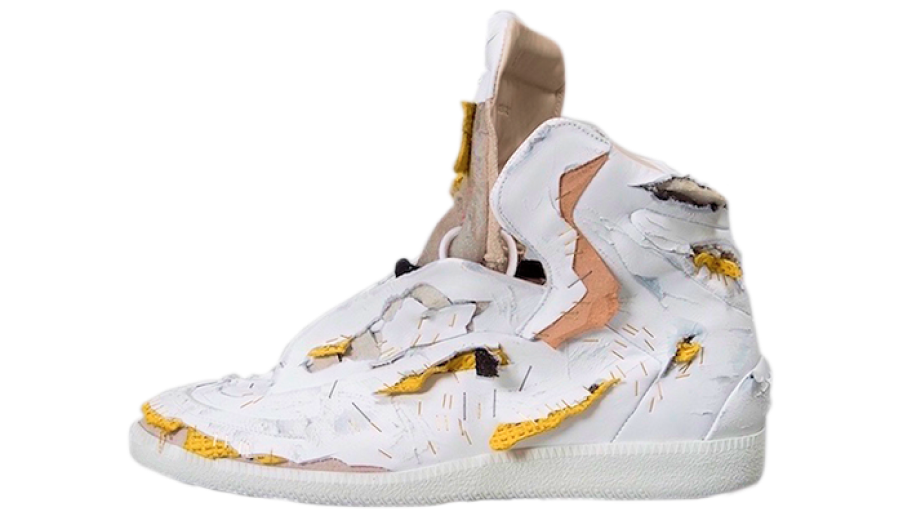
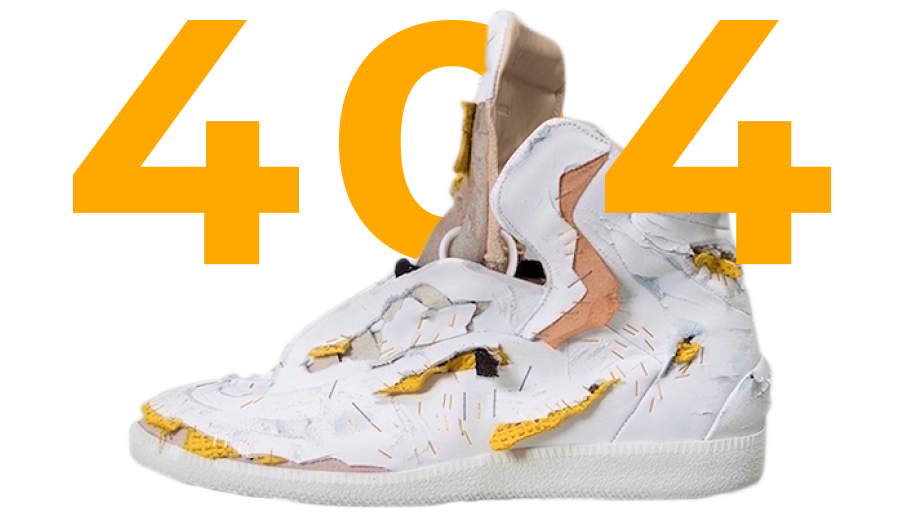
changes ErrorPageComponent add mediascreen

Changed region(s): [[0.6512, 0.0303, 0.9302, 0.5152], [0.062, 0.0303, 0.3411, 0.5152], [0.3721, 0.0303, 0.5581, 0.4848]]

diff --git a/src/routes/index.js b/src/routes/index.js
@@ -1,28 +1,33 @@
 import { createBrowserRouter } from "react-router-dom";
-import App from "../App"; 
+import App from "../App";
 import Catalog from "./Catalog";
+import ErrorPage from "./ErrorPage";
 import MainPage from "./MainPage";
 import Order from "./Order";
 const router = createBrowserRouter([
-    { 
-      path: "/",
-      element: <App />,
-      children: [
-        {
-          path: "/",
-          element: <MainPage />,
-        },
-        {
-          path: "Catalog",
-          element: <Catalog />,
-        }
-      ]
-    },
-   
-    {
-      path: "Order",
-      element: <Order />,
-    }
-])
+  {
+    path: "/",
+    element: <App />,
+
+    children: [
+      {
+        path: "/",
+        element: <MainPage />,
+      },
+      {
+        path: "Catalog",
+        element: <Catalog />,
+      },
+      {
+        path: "Error",
+        element: <ErrorPage />,
+      },
+    ],
+  },
+  {
+    path: "Order",
+    element: <Order />,
+  },
+]);
 
 export default router;

diff --git a/src/components/ErrorPageComponent/index.js b/src/components/ErrorPageComponent/index.js
@@ -1,0 +1,18 @@
+import img from "../../mockData/errorpage.png";
+import styles from "./errorPage.module.css";
+const ErrorPageComponent = () => {
+  return (
+    <div className={"container flex flex-col items-center	" + styles.block}>
+     <img src={img} className={"flex object-contain tablet:mb-10 " + styles.image} alt="" />
+     
+      <div className={"flex text-primary2 text-h1 " + styles.text1}>
+        УПС! ВАШИ КРОССОВКИ ПОРВАЛИСЬ :(
+      </div>
+      <div className={"flex text-center font-normal text-h2t mt-2.5	tablet:mt-5 " + styles.text2}>
+        Эта страница не найдена. Попробуйте перейти на главную и купить себе новые кроссовки!
+      </div>
+    </div>
+  );
+};
+
+export default ErrorPageComponent;

diff --git a/src/components/ErrorPageComponent/errorPage.module.css b/src/components/ErrorPageComponent/errorPage.module.css
@@ -1,0 +1,40 @@
+.image {
+  width: 903px;
+}
+.block {
+  margin-top: 120px;
+  width: 970px;
+}
+.text2 {
+  width: 633px;
+}
+@media screen and (min-width: 768px) and (max-width: 1200px) {
+  .text1 {
+    font-size: 30px;
+    line-height: 37px;
+  }
+  .block {
+    width: 704px;
+  }
+  .image {
+    width: 704px;
+    height: 408px;
+  }
+}
+@media screen and (max-width: 767px) {
+  .text1 {
+    font-size: 15px;
+    line-height: 18px;
+  }
+  .block {
+    width: 100%;
+  }
+  .image {
+    height: 200px;
+  }
+  .text2 {
+    width: 307px;
+    font-size: 12px;
+    line-height: 15px;
+  }
+}

diff --git a/src/routes/ErrorPage/index.js b/src/routes/ErrorPage/index.js
@@ -1,0 +1,12 @@
+import ErrorPageComponent from "../../components/ErrorPageComponent";
+import MenuItems from "../../components/MenuItems";
+
+const ErrorPage = () => {
+  return (
+    <>
+      <MenuItems />
+      <ErrorPageComponent />
+    </>
+  );
+};
+export default ErrorPage;

diff --git a/src/routes/Order/index.js b/src/routes/Order/index.js
@@ -1,4 +1,4 @@
-import Header from "../../components/Header";
+import Header from "../../components/HeaderComponent";
 import MenuItems from "../../components/MenuItems";
 import Navigation from "../../components/Navigation";
 import OrderForm from "../../components/OrderForm";

diff --git a/src/components/HeaderComponent/index.js b/src/components/HeaderComponent/index.js
@@ -1,7 +1,6 @@
 import styles from "./Header.module.css";
 import SearchForm from "./Search";
 import TelephoneIcon from "../svg/TelephonIcon";
-// import MainMenuItem from "../MainMenuItem";
 import LogoIcon from "../svg/LogoIcon";
 import HeaderIcons from "./HeaderIcons";
 

diff --git a/src/App.js b/src/App.js
@@ -1,4 +1,4 @@
-import Header from "./components/Header";
+import Header from "./components/HeaderComponent";
 import "./index.css";
 
 import { Outlet } from "react-router-dom";
